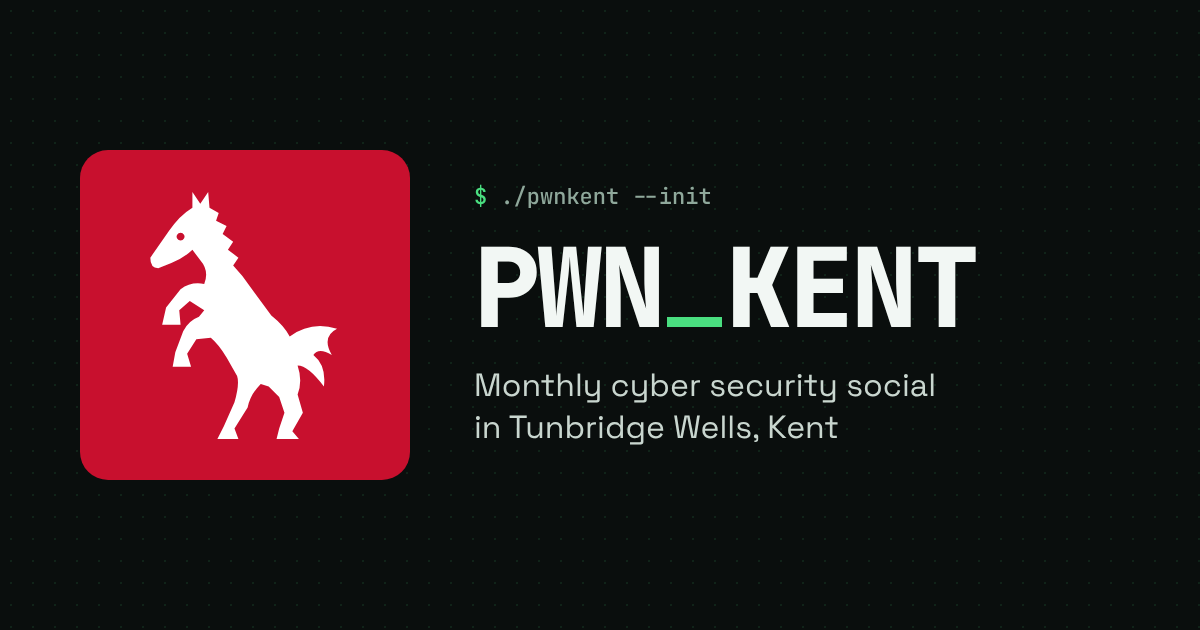
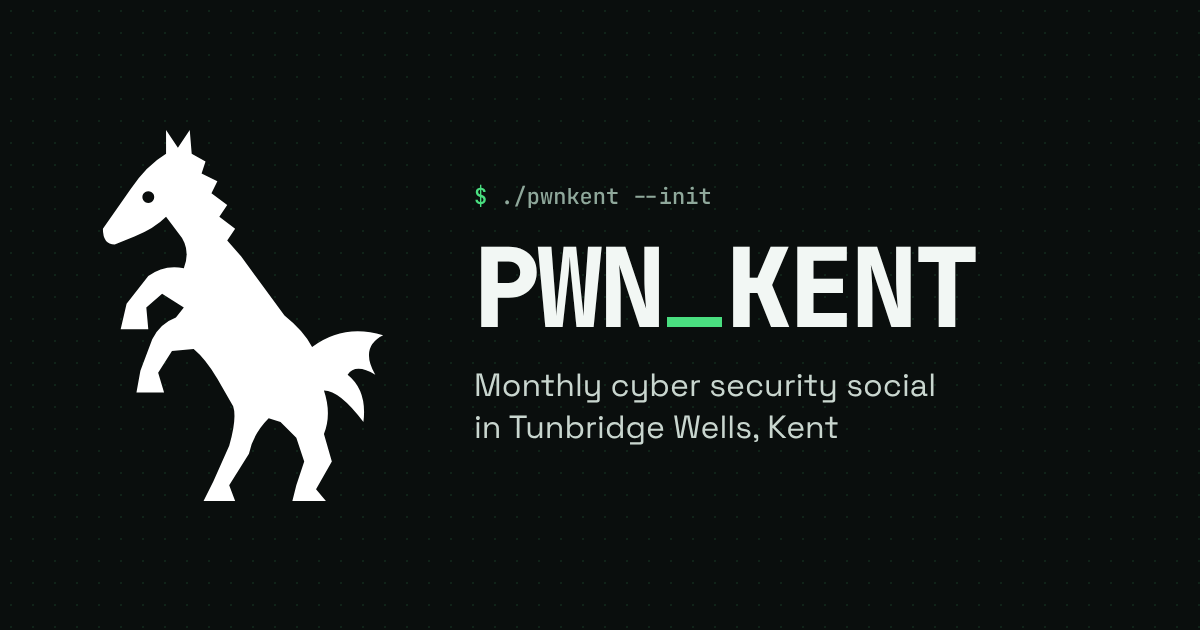
Add files via upload

Changed region(s): [[0.0617, 0.2111, 0.3392, 0.8143]]

diff --git a/index.html b/index.html
@@ -78,7 +78,12 @@ h1.word{margin:0;font-family:var(--mono);font-weight:800;font-size:clamp(52px,9.
 .btn{display:inline-flex;align-items:center;justify-content:center;min-height:52px;padding:0 26px;border-radius:4px;font-weight:700;font-size:18px;text-decoration:none}
 .btn-primary{background:var(--accent);color:var(--bg)} .btn-primary:hover{background:var(--accent-hover);color:var(--bg)}
 .btn-ghost{border:2px solid var(--line-2);color:var(--text)} .btn-ghost:hover{border-color:var(--accent);color:var(--accent)}
-@media (max-width:700px){.hero .wrap{padding-top:64px;padding-bottom:72px}}
+.brand-mark{width:36px;height:36px;border-radius:8px;background:#161616;border:1px solid var(--line-2);display:grid;place-items:center}
+.brand-mark svg{width:22px;height:29px}
+.hero-mark{flex:1 1 260px;display:flex;justify-content:center}
+.hero-tile{width:min(360px,72vw);aspect-ratio:1;display:grid;place-items:center}
+.hero-tile svg{width:80%;height:auto}
+@media (max-width:700px){.hero .wrap{padding-top:64px;padding-bottom:72px}.hero-tile{width:220px}}
 
 /* Sections */
 section{border-bottom:1px solid var(--line)}
@@ -119,6 +124,7 @@ footer a{color:var(--text-2)}
 <header>
   <nav class="nav" aria-label="Main">
     <a class="brand" href="#top" aria-label="Pwn Kent home">
+      <span class="brand-mark"><svg viewBox="0 0 152 200" aria-hidden="true"><use href="#horse"/></svg></span>
       <span>PWN<span class="bar"></span>KENT</span>
     </a>
     <ul>
@@ -129,6 +135,13 @@ footer a{color:var(--text-2)}
     </ul>
   </nav>
 </header>
+
+<!-- Horse symbol, reused in the header and hero -->
+<svg width="0" height="0" style="position:absolute" aria-hidden="true">
+  <symbol id="horse" viewBox="40 0 152 200">
+    <path fill="#FFFFFF" fill-rule="evenodd" d="M44 56 L58 36 Q66 24 76 18 L76 6 L82 15 L88 6 L89 18 L96 22 L94 28 L102 32 L99 38 L107 44 L103 50 L111 56 L107 62 L114 70 L136 100 Q146 108 150 116 Q166 104 186 110 Q174 116 182 130 Q172 124 168 130 Q178 138 176 154 Q164 138 156 138 Q160 150 156 160 L160 174 L152 188 L157 194 L140 194 L142 186 L146 174 L142 162 L134 154 L128 152 Q120 160 118 170 L108 186 L111 194 L95 194 L100 184 L108 166 Q112 152 110 146 L102 132 Q96 122 90 117 L79 118 L72 129 L75 139 L61 139 L63 128 L69 112 Q73 104 81 101 L85 96 L74 89 L66 96 L67 107 L53 107 L56 94 L67 80 Q75 74 85 76 Q89 66 82 58 L76 50 Q70 56 60 60 L50 64 Q44 64 44 56 Z M67 37 a3 3 0 1 0 0.01 0 Z"/>
+  </symbol>
+</svg>
 
 <main id="main">
 
@@ -146,6 +159,9 @@ footer a{color:var(--text-2)}
         <a class="btn btn-primary" href="https://www.linkedin.com/in/sam-macdonald-66967642/" rel="noopener">Register interest</a>
         <a class="btn btn-ghost" href="https://www.linkedin.com/in/sam-macdonald-66967642/" rel="noopener">Offer a talk</a>
       </div>
+    </div>
+    <div class="hero-mark">
+      <div class="hero-tile"><svg viewBox="0 0 152 200" role="img" aria-label="The Pwn Kent horse"><use href="#horse"/></svg></div>
     </div>
   </div>
 </section>
